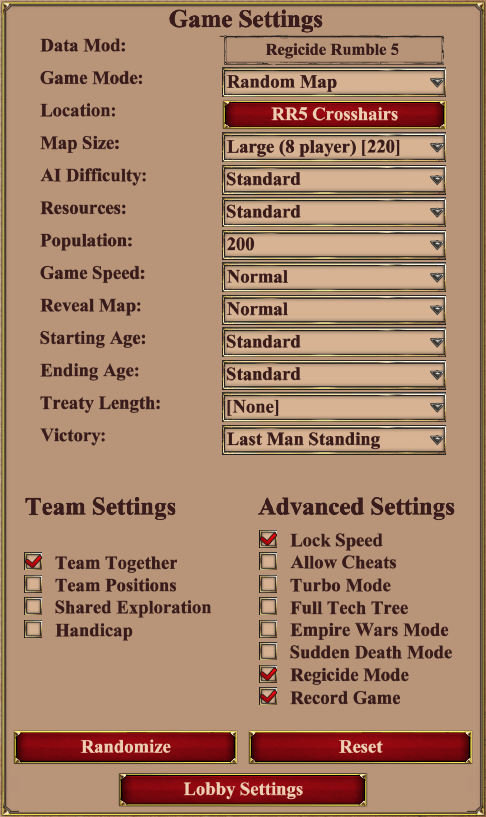
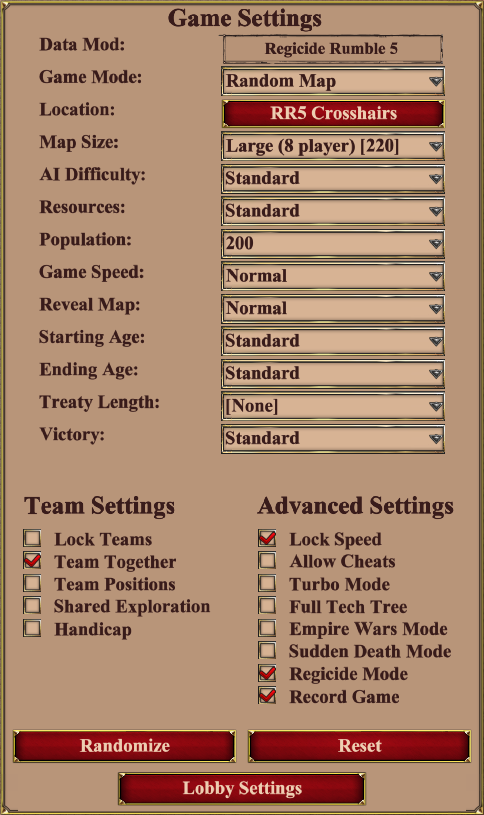
Update screenshots

diff --git a/rr5/index.html b/rr5/index.html
@@ -103,7 +103,8 @@
         </p>
         <p>
           My moderators will handle selecting the host, server, and ensuring lobby settings are correct.
-          However, <a href="img/lobby.png">here is a screenshot of the lobby settings</a>.<br>
+          However, here are screenshots of the <a href="img/create-lobby.png?1724403735">Create Lobby Settings </a>
+          and the <a href="img/lobby.png?1724403735">Game Settings</a>.<br>
           <strong>Make sure spectators are enabled when making the lobby!</strong><br>
           <strong>Make sure the Regicide Rumble 5 data mod is selected when making the lobby!</strong>
         </p>
@@ -527,6 +528,12 @@
             <li>Updated lobby screenshot</li>
             <li>Added map screenshots and minimaps</li>
             <li>Linked and explained event mod</li>
+          </ul>
+          </li>
+          <li>2024-08-23
+          <ul>
+            <li>Updated Game Settings screenshot to use Standard instead of Last Man Standing</li>
+            <li>Added Create Lobby screenshot</li>
           </ul>
           </li>
         </ul>
